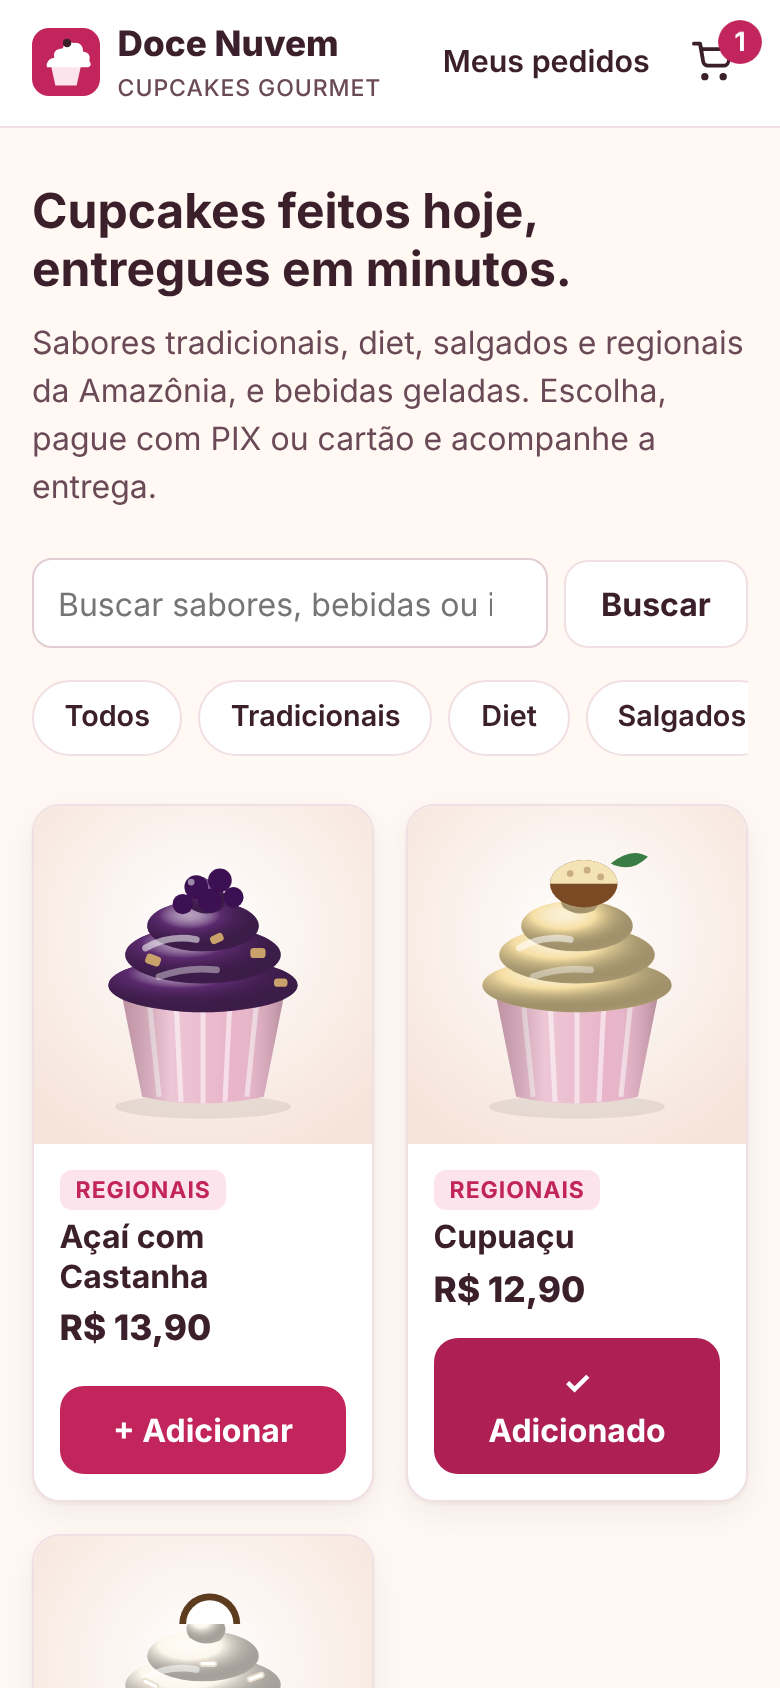
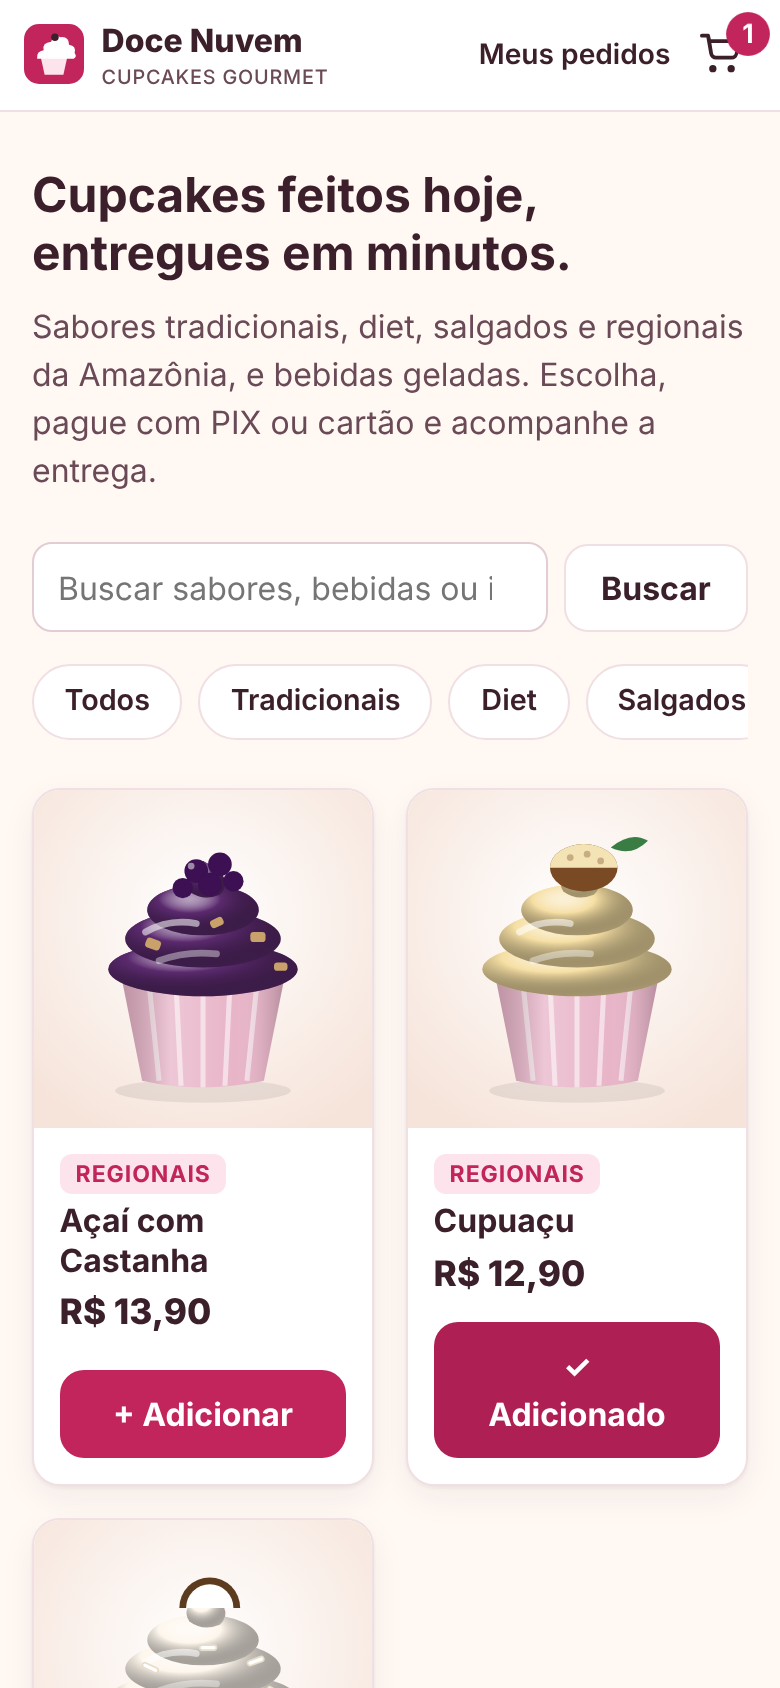
fix(v1.1): topo compacto e opaco no celular; registro da avaliação de Valdirene com evidências
Claude-Session: https://claude.ai/code/session_01KZW3ixzrm5CSdfKWyFAdsB

diff --git a/app/static/css/style.css b/app/static/css/style.css
@@ -206,3 +206,14 @@ input:focus, textarea:focus { border-color: var(--framboesa); outline: none; box
 
 @media (prefers-reduced-motion: reduce) { * { animation: none !important; transition: none !important; } }
 fieldset .erro-inline[role="alert"] { background: var(--erro-claro); border: 1px solid #f5c2bd; border-radius: 10px; padding: .55rem .75rem; font-weight: 600; }
+/* v1.1 — print da avaliadora Valdirene: no celular o topo ficava alto (texto quebrava) e o conteúdo aparecia por trás */
+.topo { background: #ffffff; }
+.topo__nav a { white-space: nowrap; }
+@media (max-width: 420px) {
+  .topo__inner { padding: .5rem .75rem; gap: .5rem; }
+  .marca { font-size: 1rem; }
+  .marca small { font-size: .62rem; }
+  .marca img { width: 30px; height: 30px; }
+  .topo__nav { gap: .6rem; }
+  .topo__nav a { font-size: .88rem; }
+}

diff --git a/docs/03-situacao-3-testes-validacao/03-resultado-avaliacoes.md b/docs/03-situacao-3-testes-validacao/03-resultado-avaliacoes.md
@@ -5,9 +5,10 @@
 | # | Avaliador | Data | Funcionou | Não funcionou / corrigir | Não testado | Ação tomada (v1.1) |
 |---|---|---|---|---|---|---|
 | 1 | Nataska Wanssa | 17/11/2026 | | (a) Ao filtrar "Regionais", a busca digitada antes continuava aplicada. (b) A busca não era automática: só filtrava ao clicar em "Buscar". (c) Os regionais tinham imagens iguais às dos outros. (d) Faltavam bebidas: água e Coca normal. | | (a) Trocar de categoria limpa a busca, e há o link "✕ Limpar busca". (b) Busca ao vivo enquanto digita, sem diferenciar acentos e maiúsculas. (c) Cada sabor ganhou um enfeite próprio: açaí com castanha, cupuaçu aberto, coco, morango, limão, chocolate e ervas. (d) Nova categoria **Bebidas** com água sem gás, água com gás, Coca-Cola e Coca-Cola Zero. |
-| 2 | Leopoldo Fuji | | | | | |
+| 2 | Leopoldo Fuji | | *(avaliação não recebida até o fechamento)* | | | |
 | 3 | Leonardo Gobbi | 17/11/2026 | | Não gostou do estilo das imagens; preferia fotos mais realistas, porque as ilustrações não estavam atrativas. | | Ilustrações refeitas com volume: gradientes, cobertura em camadas, brilho e sombra. **Fotos reais ficaram no Roadmap (v1.3):** precisam ser fotos dos produtos da própria loja. Usar fotos de banco de imagens mostraria ao cliente um produto que ele não vai receber, o que contraria a US01. |
 | 4 | Fernando Miranda | 17/11/2026 | | (a) Não gostou de o e-mail ser obrigatório. (b) Não conseguiu comprar com cartão. | | (a) E-mail passou a ser **opcional** (validado só se preenchido); a tabela `cliente` foi recriada pela migração 003, preservando os dados. (b) Causa encontrada: a máscara da validade cortava o ano em 2 dígitos, então quem digitava **12/2030** ficava com **12/20** e recebia "Cartão vencido". Além disso, a mensagem de erro aparecia só no topo da página, fora da vista no celular. Correções: a máscara aceita MM/AAAA, e o erro agora aparece **ao lado do campo** e da seção de pagamento. |
+| 6 | Valdirene Aquino Demetrio | 17/11/2026 | Tudo funcionou: compra com **PIX** (pedido EYDRM4L5: Baunilha com Morango + Frango com Catupiry, embalagem presente, total R$ 31,80) e compra com **cartão** final 1111; CEP 76801-000; acompanhamento do pedido. | Nenhum erro relatado. | Não informado. | Nos prints enviados por ela, o autor notou que o topo da página ficava alto no celular ("Meus pedidos" quebrava em duas linhas) e o conteúdo aparecia por trás dele. O topo foi compactado e ficou opaco (DEF-10). Prints em `evidencias/avaliadores/`. |
 | 5 | Luiz Cláudio | 17/11/2026 | | Digitou um CEP diferente do sugerido no roteiro e o frete foi recusado. | | Causa: a faixa da zona Centro começava em 76800-001 e excluía **76800-000**, o CEP geral de Porto Velho. Faixa corrigida por migração do banco, e a mensagem agora informa os CEPs atendidos ("76800-000 a 76834-999"). CEPs de outras cidades continuam recusados, como manda a regra de negócio (US08). |
 
 ## Melhorias incorporadas após as avaliações (versão 1.1)
@@ -21,6 +22,7 @@
 | Imagens mais atrativas | Leonardo | ✅ Parcial: ilustrações com volume. Fotos reais → Roadmap v1.3 | captura `13-vitrine-desktop.png` |
 | CEP de Porto Velho recusado | Luiz Cláudio | ✅ Corrigido | `test_v11_cep_geral_de_porto_velho_e_aceito` |
 | E-mail opcional | Fernando | ✅ Feito | `test_v11_email_e_opcional` |
+| Topo do celular alto e transparente | Valdirene (observado nos prints) | ✅ Corrigido | captura `01-vitrine-celular.png` |
 | Compra com cartão falhando | Fernando | ✅ Corrigido (validade MM/AAAA + erro junto ao campo) | `test_validade_com_ano_de_4_digitos`, `test_v11_erro_do_cartao_aparece_junto_ao_pagamento`, teste de front `mascaraValidade` |
 
 A atualização foi feita **sem apagar os pedidos dos testadores**: o banco ganhou controle de versão (`PRAGMA user_version`) e migrações em `database/migracoes/`, cobertas por `test_v11_migracao_preserva_pedidos_de_banco_antigo`.

diff --git a/docs/03-situacao-3-testes-validacao/01-plano-e-laudo-de-testes.md b/docs/03-situacao-3-testes-validacao/01-plano-e-laudo-de-testes.md
@@ -75,6 +75,7 @@ python -m pytest tests_e2e -v            # sistema (gera as capturas em docs/img
 | **DEF-07** | Avaliador Leonardo Gobbi (usabilidade/estética) | Imagens pouco atrativas | Ilustrações planas e repetidas | Ilustrações com volume e enfeite por sabor; fotos reais no Roadmap | captura da vitrine v1.1 |
 | **DEF-08** | Avaliador Fernando Miranda | Não conseguia pagar com cartão | Máscara da validade limitada a 4 dígitos: 12/2030 virava 12/20 (vencido); a mensagem de erro ficava só no topo da página | Máscara MM/AA ou MM/AAAA; mensagem de erro ao lado do campo, com `role=alert` | testes de front e de integração específicos |
 | **DEF-09** | Avaliador Fernando Miranda (usabilidade) | E-mail obrigatório sem necessidade | Requisito excessivo no PIT I | E-mail opcional (migração 003 recria a tabela preservando dados) | `test_v11_email_e_opcional` |
+| **DEF-10** | Prints da avaliadora Valdirene Aquino Demetrio | No celular, o topo ocupava 3 linhas e o texto da página aparecia por trás dele | Fundo do topo 96% opaco e textos quebrando em telas estreitas | Topo opaco, textos sem quebra e tamanhos menores abaixo de 420 px | captura do teste de sistema no celular |
 
 **Situação atual:** nenhum defeito conhecido em aberto nos testes automatizados. Os defeitos relatados pelos avaliadores entram na seção 6.
 
